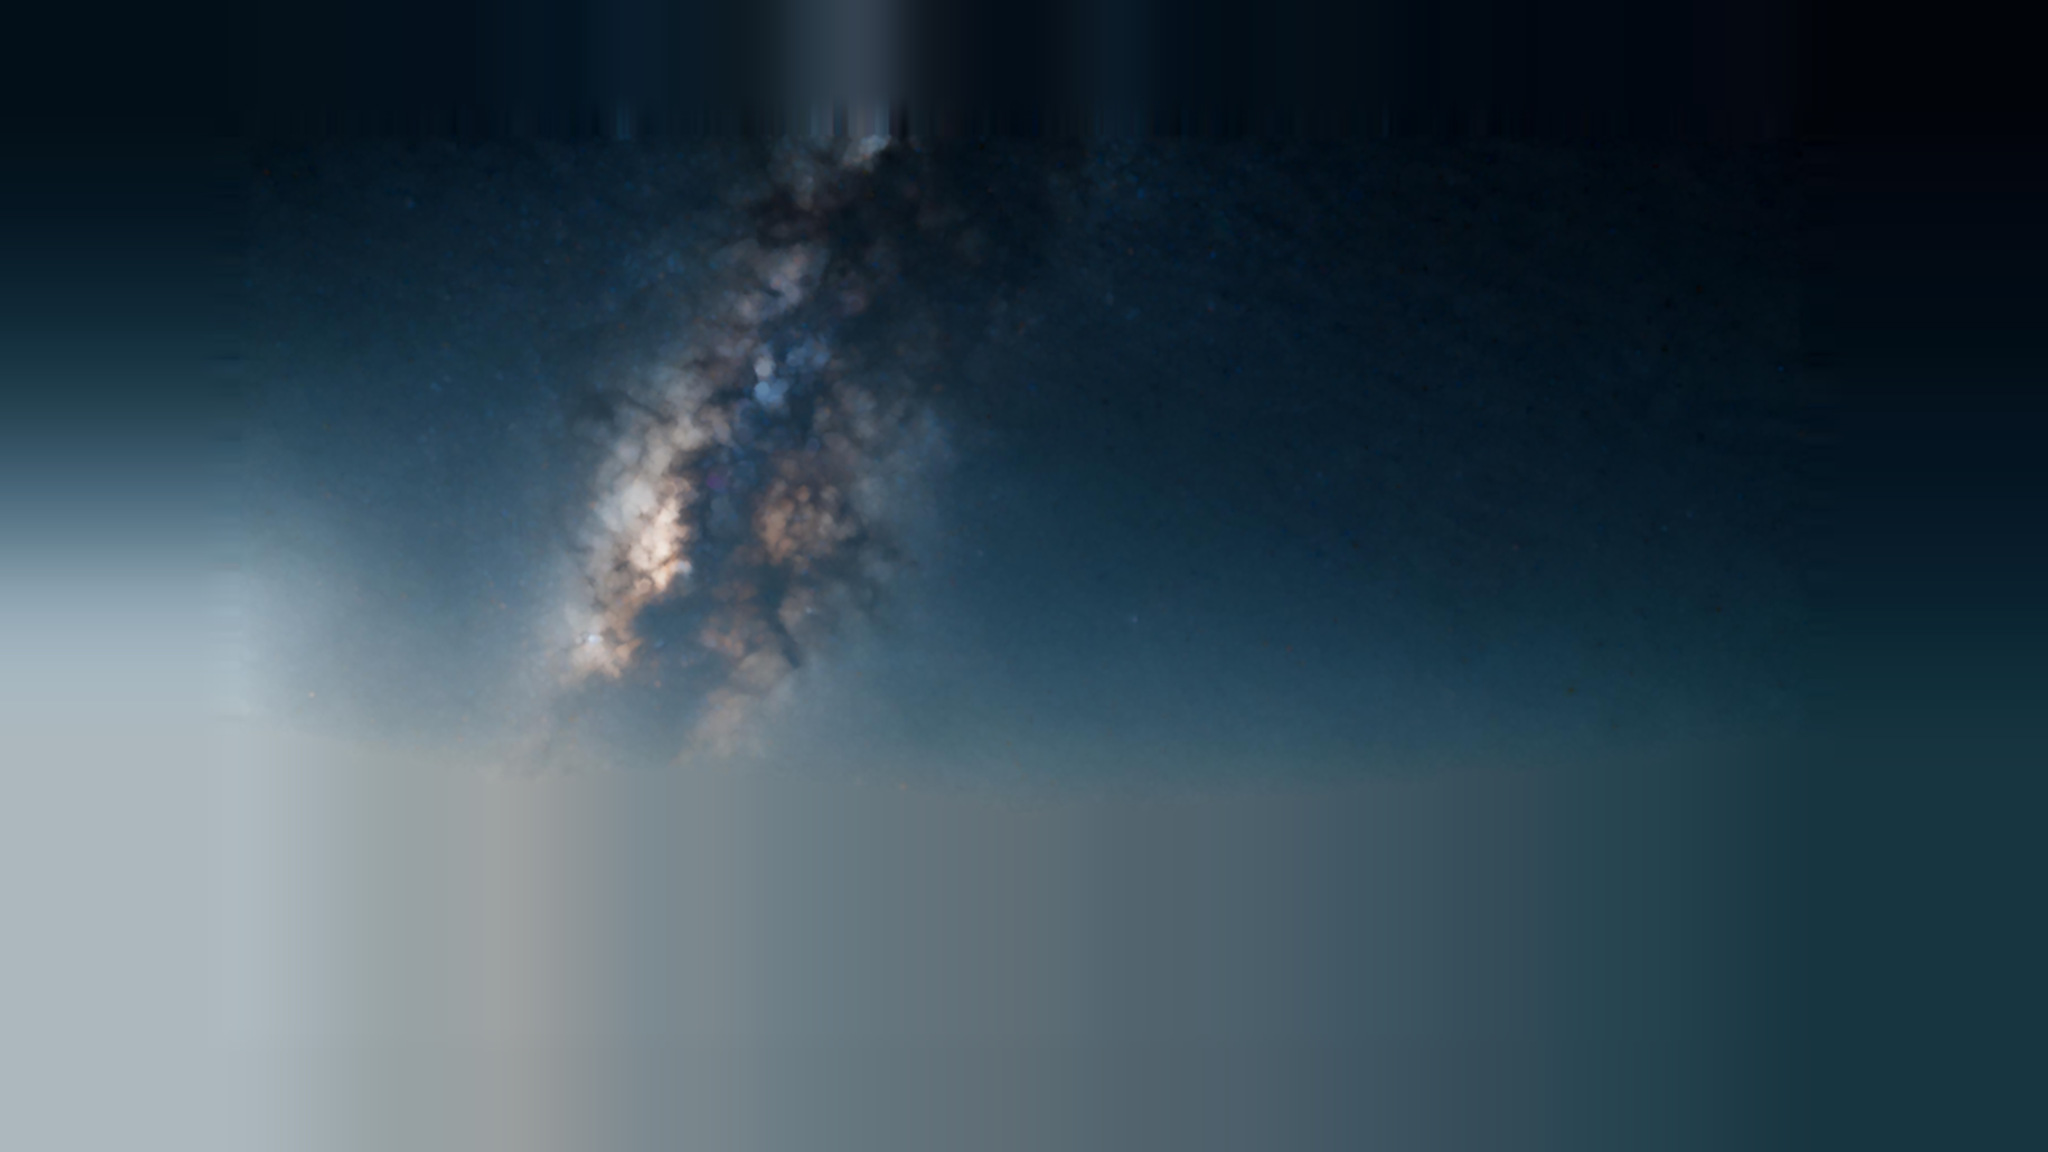
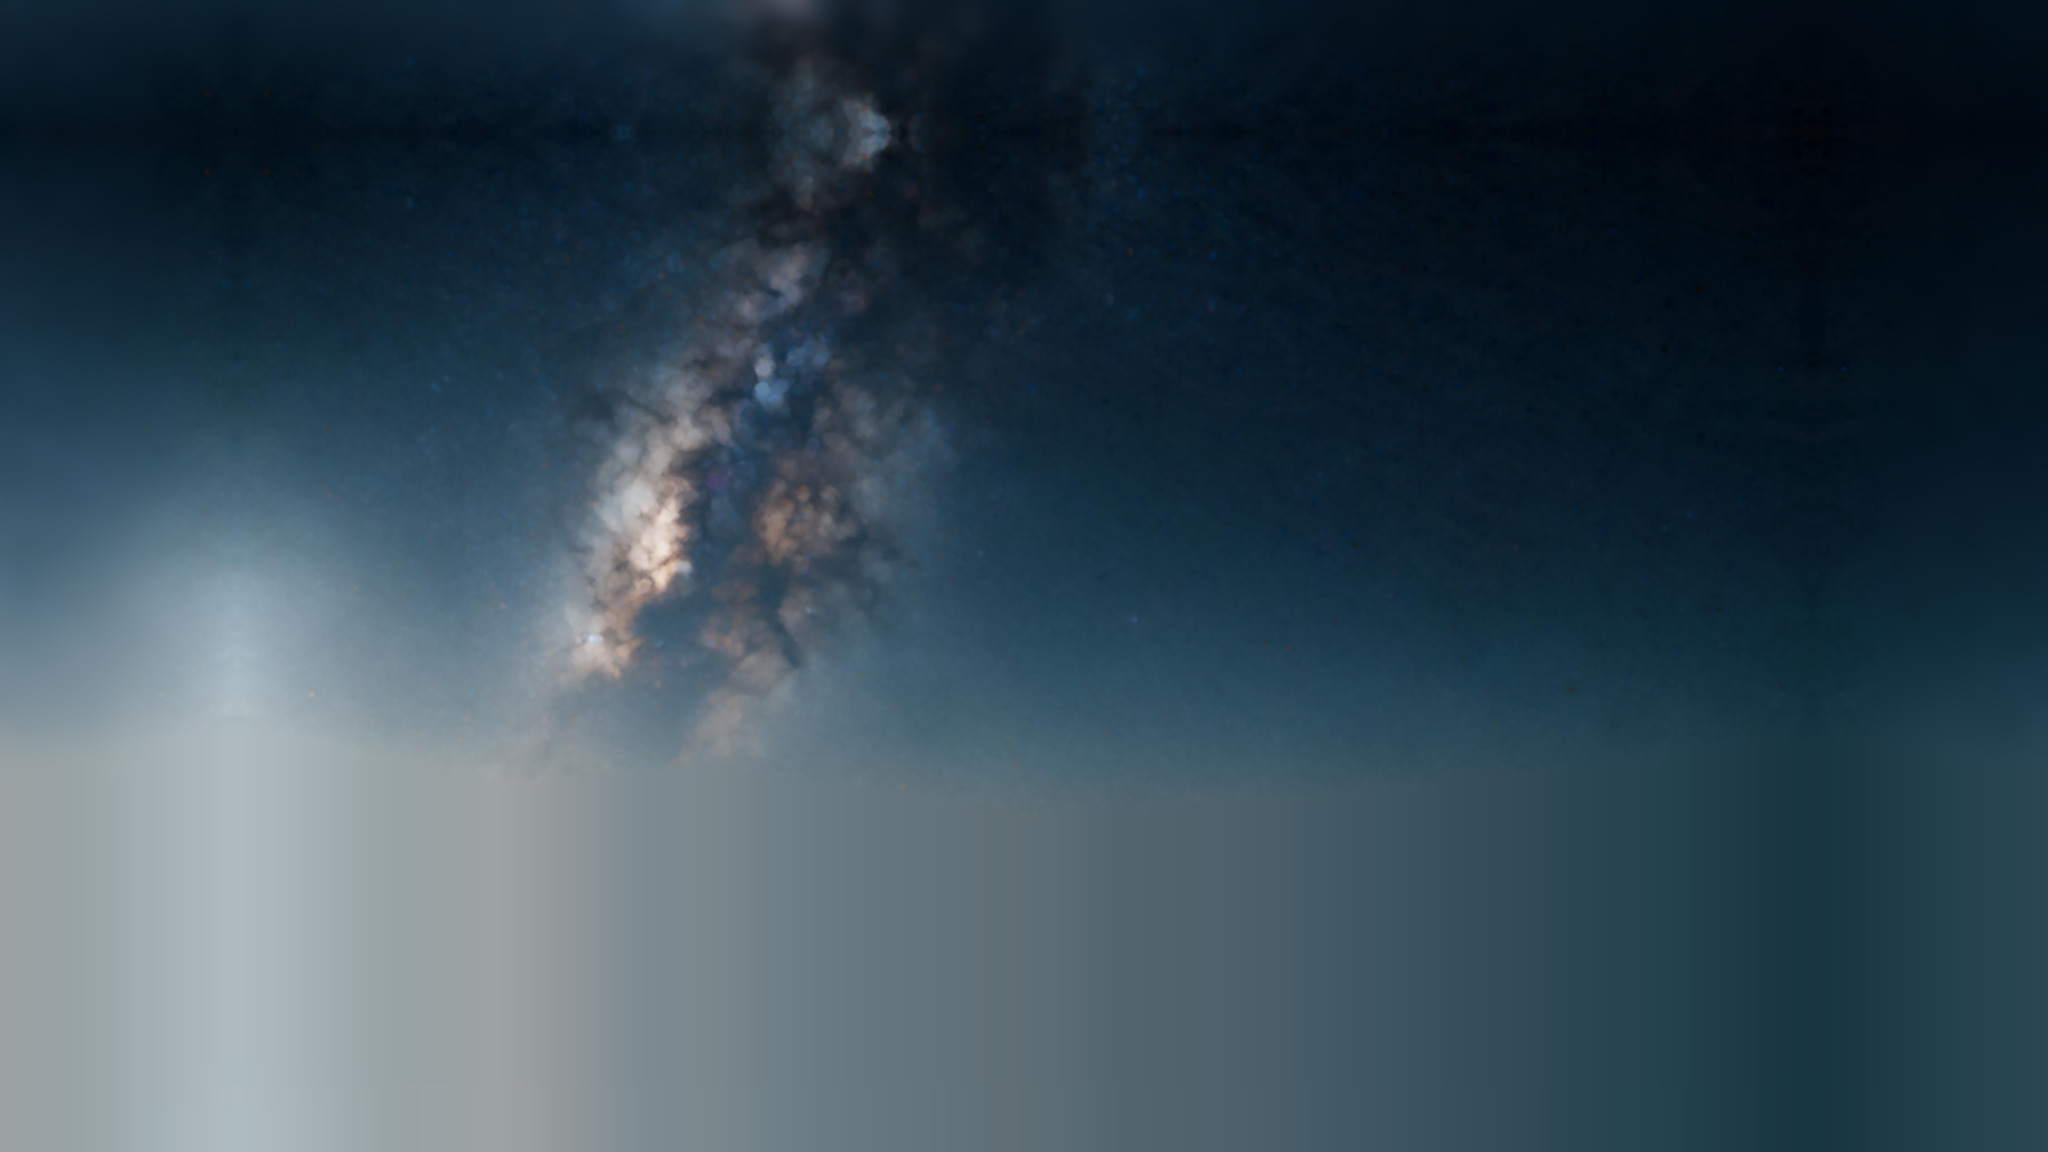
night: the trees' crowns end in small crowns and the level banks carry a hedge, the fog lies at the foot of the tree row in patches, the mist drifts, the sky's glow goes on past the frame by its mirror, the stars dim more toward the horizon

diff --git a/src/worlds/night/density.ts b/src/worlds/night/density.ts
@@ -1,3 +1,3 @@
 export const GLOW_COVER = 1.3
 export const DENSITY_SIZE = [96, 54] as const
[2 lines of base64/hex data omitted]

diff --git a/src/worlds/night/layers.ts b/src/worlds/night/layers.ts
@@ -44,12 +44,13 @@ uniform float uRim;
 uniform float uFogShare;
 uniform float uCrown;
 uniform float uFloor;
+uniform float uTwigs;
 ${air}
 ${skylineCanopy}
 void main() {
   float top = vInfo.z;
 #ifdef TREES
-  top *= skylineCanopy(vInfo.x, uCrown, uLayer, uFloor);
+  top *= skylineCanopy(vInfo.x, uCrown, uLayer, uFloor) * (1.0 - uTwigs * (1.0 - max(skylineCrown(vInfo.x, 0.29 * uCrown, uLayer + 7.0), skylineCrown(vInfo.x + 0.1 * uCrown, 0.17 * uCrown, uLayer + 9.0))));
   if (vInfo.y > top) discard;
   float mass = valueNoise(vec2(vInfo.x * 3.3 / uCrown, vInfo.y * 4.5 / uCrown + uLayer));
 #else
@@ -98,6 +99,12 @@ const TONES: { base: [number, number, number]; rim: number; fogShare: number }[]
   { base: [0.03, 0.045, 0.04], rim: 0.06, fogShare: 0.3 },
   { base: [0.03, 0.04, 0.035], rim: 0.04, fogShare: 0.3 },
 ]
+
+// Under the night's low lens the two level banks at the field's edge are overgrown: their tops are a hedge's crowns, never higher than the bank the other worlds draw.
+const HEDGE_CROWN_M = 2.4
+const HEDGE_FLOOR = 0.66
+// The near rows' crowns end in smaller crowns of their own, which take off at most this share of the height.
+const TWIGS = 0.14
 
 export interface FarLayers { meshes: THREE.Mesh[]; triangles: number; setTime(time: number): void }
 
@@ -153,11 +160,12 @@ export function makeFarLayers(landBearingDeg: number): FarLayers {
   SKYLINE.forEach((layer, i) => {
     const geometry = rings[i].geometry
     const tone = TONES[i]
+    const hedge = !layer.trees && layer.rowM !== undefined
     const surface = makeSurface({
       name: `night ${layer.name}`,
       vertex,
-      fragment: `${layer.trees ? '#define TREES 1\n' : ''}${stripFragment}`,
-      uniforms: { ...airUniforms, uBase: { value: new THREE.Vector3().fromArray(tone.base) }, uLayer: { value: skylineLayerSalt(i) }, uRim: { value: tone.rim }, uFogShare: { value: tone.fogShare }, uCrown: { value: layer.crownM }, uFloor: { value: layer.floor } },
+      fragment: `${layer.trees || hedge ? '#define TREES 1\n' : ''}${stripFragment}`,
+      uniforms: { ...airUniforms, uBase: { value: new THREE.Vector3().fromArray(tone.base) }, uLayer: { value: skylineLayerSalt(i) }, uRim: { value: tone.rim }, uFogShare: { value: tone.fogShare }, uCrown: { value: hedge ? HEDGE_CROWN_M : layer.crownM }, uFloor: { value: hedge ? HEDGE_FLOOR : layer.floor }, uTwigs: { value: layer.rowM ? TWIGS : 0 } },
       side: THREE.DoubleSide,
       castShadow: false,
     })

diff --git a/src/worlds/night/index.ts b/src/worlds/night/index.ts
@@ -16,8 +16,8 @@ export const world: WorldSettings = {
 }
 
 // Cold and low: a thin layer in the crop under eye level, and a broken bank over the far field to the foot of the hills.
-const MIST: MistSettings = { fromM: 6.5, toM: 60, sheets: 10, heightM: 0.14, thickness: 0.92, lit: [0.4, 0.4, 0.36], shade: [8.2, 5.4, 3.3], forward: 1, drift: [0.04, 0.015], bankM: 6, broken: 0.6, lobeRad: 0.34, rise: 0.6 }
-const BANK: MistSettings = { fromM: 30, toM: 75, sheets: 3, heightM: 0.38, thickness: 0.35, lit: [0.55, 0.55, 0.5], shade: [6.8, 4.5, 2.8], forward: 1, drift: [0.03, 0.01], bankM: 3, broken: 1, lobeRad: 0.34 }
+const MIST: MistSettings = { fromM: 6.5, toM: 60, sheets: 10, heightM: 0.14, thickness: 0.92, lit: [0.4, 0.4, 0.36], shade: [8.2, 5.4, 3.3], forward: 1, drift: [0.55, 0.2], bankM: 6, broken: 0.6, lobeRad: 0.34, rise: 0.6 }
+const BANK: MistSettings = { fromM: 50, toM: 75, sheets: 3, heightM: 0.34, thickness: 0.999, lit: [0.55, 0.55, 0.5], shade: [6.8, 4.5, 2.8], forward: 1, drift: [0.9, 0.35], bankM: 8, broken: 0.85, lobeRad: 0.34 }
 
 // The sky is painted for the grade below: its curve undoes the grade's contrast and its saturation the grade's, so the sky keeps the approved's tones while the plant gets the harder light.
 const SKY_GAIN = 0.69

diff --git a/src/worlds/night/sky.ts b/src/worlds/night/sky.ts
@@ -108,7 +108,7 @@ void main() {
   float sigma = aLight.a * uWidth / 1920.0;
   float size = ceil(6.0 * sigma) + 2.0;
   float air = uFogDensity * exp(-uFogFalloff * max(uCamPos.y, 0.0)) / (uFogFalloff * max(w.y, 1e-4));
-  float dim = exp(-air) * exp(-0.035 / max(w.y, 0.01)) * smoothstep(0.0, 0.02, w.y);
+  float dim = exp(-air) * exp(-0.06 / max(w.y, 0.01)) * smoothstep(0.0, 0.02, w.y);
   vLight = aLight.rgb * (uGain * dim / (6.2832 * sigma * sigma));
   vSigma = sigma;
   bool hidden = v.z > -0.05 || uDiag > 1;

diff --git a/assets-src/worlds/night/RECIPE.md b/assets-src/worlds/night/RECIPE.md
@@ -10,7 +10,7 @@
   1. The take. Input: `references/approved/night.png`, as the only input image. Aspect ratio 16:9. Prompt, word for word: "Edit this photograph. Remove the tall sunflower plant in the foreground completely: its stem, all of its leaves and its closed bud. Fill the place where it stood with what would be seen behind it: the night sky full of stars with the Milky Way, the dark hills and the dark field below them. Keep everything else exactly as it is and exactly where it is: the framing, the horizon line, the sun and its position, the sky, the colors, the light, the depth of field blur and the film grain. Do not add anything: no plant in the foreground, no sprout, no flower, no leaves, no people, no animals, no insects, no objects, no text, no watermark, no border." The take came back at 2816 x 1584. It is read from `out/work/sky-night/take-plant-out.jpg`, which is not committed.
   2. `compose-glow.mjs` takes the stars out of the take at its own size with an opening: per channel the darkest value inside a disc of radius 4 pixels, then the brightest of those inside the same disc, so anything narrower than 9 pixels is gone and the dark lanes keep their edges. A second opening with a disc of radius 10 pixels is used only where the first is still more than 60 percent brighter than it (linear luminance, the mark blurred by 5 pixels), which removes the few wide star discs that are left. Then a blur of 1 pixel and the take is halved to 1408 x 792, never brighter than the take itself. What is left is the light that is wider than a star. The radii and the 60 percent are the arguments 4, 5 and 6 of the script.
   3. It finds the top of the land in every column (the steepest fall of brightness between 0.655 and 0.81 of the height), and from 7 pixels above it downward it lays the tone of the sky just above the land, eased over 48 columns either way, so the sky goes on behind the hills that the code draws.
-  4. It adds a border of 0.15 of the frame on every side by repeating the edge, blurred by 22 pixels from 40 pixels outside the frame on, and writes both files.
+  4. It adds a border of 0.15 of the frame on every side by mirroring the take across its own edge, so the clouds of the Milky Way go on past the frame with their own grain and no column of one tone stands in it. From the edge outward the border is eased over 120 pixels into a copy of itself blurred by 9 pixels. Then it writes both files.
   5. It writes `src/worlds/night/density.ts`: the brightness of the map on a grid of 96 x 54, which the star catalogue uses so that the stars stand denser along the Milky Way and thin out in its dark lanes.
 - Take kept: take 1 of 2: the plant is gone and the Milky Way, the hills and the mist sit exactly where they do in the approved image (best shift 0 px in the left, right and top strips, searched within 20 px). Take thrown out for this map: a second edit that asked the model to remove the land and every star itself (`out/work/sky-night/glow-1.png`, same model): it kept many stars in the core, darkened the corners and moved the low glow from the left edge to the middle.
 - Checks passed: the composed map was looked at whole: no star left as a point or a blob over the part the film sees, no land, no plant, no seam where the sky goes on below the hill line, no text, no watermark. Sizes: 2048 x 1152 and 1024 x 576. Files: 0.15 MB and under 0.1 MB. In memory with its smaller copies the full map takes 12.6 MB.
